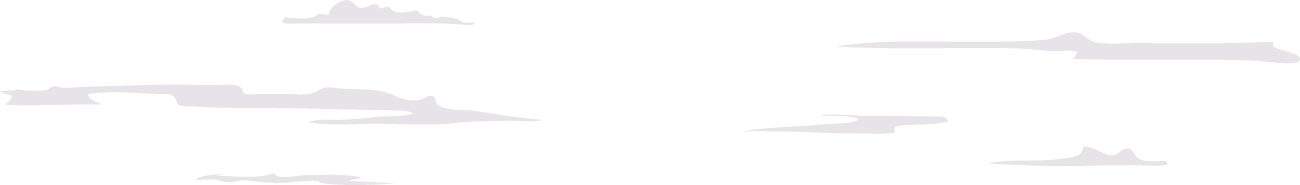
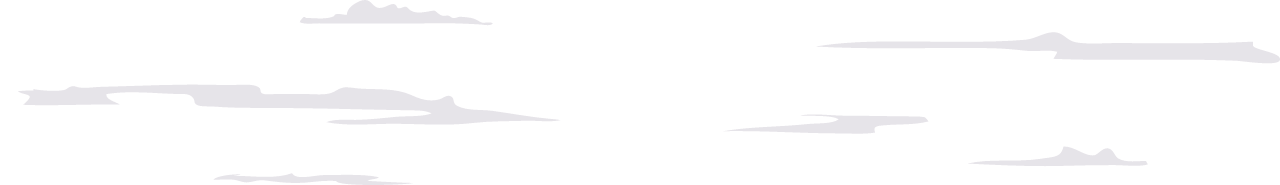
skyBg 圖片壓縮

diff --git a/src/components/Sky/index.js b/src/components/Sky/index.js
@@ -1,0 +1,58 @@
+import React from "react";
+import styled, { keyframes } from "styled-components";
+import { cloud, mountain1, mountain2, sky } from "../../assets";
+
+const bgMove = keyframes`
+  to {
+    background-position: -1280px 0;
+  }
+`;
+const bgDefault = styled.div`
+  position: absolute;
+  width: 1200px;
+  height: 300px;
+  top: 0;
+  left: 0;
+  background-repeat-y: no-repeat;
+`;
+
+const SkyWrapper = styled(bgDefault)`
+  background-image: url(${sky});
+`;
+
+const Cloud = styled(bgDefault)`
+  background-image: url(${cloud});
+  animation: ${bgMove} 20s linear infinite;
+  ${props=>props.start?'animation-play-state:runnung;':'animation-play-state:paused;'}
+`;
+
+const Mountain1 = styled(bgDefault)`
+  height: 30px;
+  top: auto;
+  bottom: 0;
+  background-image: url(${mountain1});
+  animation: ${bgMove} 10s linear infinite;
+  ${props=>props.start?'animation-play-state:runnung;':'animation-play-state:paused;'}
+`;
+
+const Mountain2 = styled(bgDefault)`
+  height: 175px;
+  top: auto;
+  bottom: 0;
+  background-image: url(${mountain2});
+  animation: ${bgMove} 15s linear infinite;
+  ${props=>props.start?'animation-play-state:runnung;':'animation-play-state:paused;'}
+`;
+
+const Sky = ({ children, start=false }) => {
+  return (
+    <SkyWrapper>
+      <Cloud start={start} />
+      <Mountain2 start={start} />
+      <Mountain1 start={start} />
+      {children}
+    </SkyWrapper>
+  );
+};
+
+export default Sky;

diff --git a/src/components/MoveBox/index.js b/src/components/MoveBox/index.js
@@ -4,20 +4,33 @@ import { toRange } from "../../utility";
 
 const BoxWrapper = styled.div`
   position: absolute;
-  width: ${props => props.width};
-  height: ${props => props.height};
+  width: ${props => props.width}px;
+  height: ${props => props.height}px;
   top: ${props => props.top}px;
   left: ${props => props.left}px;
-  margin-top: 30px;
+  margin-top: ${props => props.height}px;
   background-color: ${props => props.bgColor};
-  transform: translate(0,-100%);
+  transform: translate(0, -100%);
   transition: 0.1s linear;
+  ${props => (props.test ? `outline: 1px solid #0f3;` : null)}
+  &>div {
+    position: absolute;
+    bottom: 6px;
+  }
+  &::before {
+    position: absolute;
+    content: "";
+    width: 100%;
+    height: 100%;
+    border-radius: 100%;
+    background: rgba(0, 0, 0, 0.2);
+  }
 `;
 
 const MoveBox = ({
   children,
-  width = "auto",
-  height = "auto",
+  width = 10,
+  height = 10,
   speed = 1,
   bgColor = "transparent",
   top = 0,
@@ -27,7 +40,7 @@ const MoveBox = ({
   backward = 0,
   forward = 0,
   start = true,
-  direction = "stop",
+  test = true,
   area = [0, 200, 0, 200]
 }) => {
   const [position, setPosition] = useState({ top: top, left: left });
@@ -51,6 +64,7 @@ const MoveBox = ({
       width={width}
       height={height}
       bgColor={bgColor}
+      test={test}
       style={{
         top: position.top,
         left: position.left

diff --git a/src/screens/index.js b/src/screens/index.js
@@ -3,6 +3,7 @@ import styled from "styled-components";
 import MoveBox from "../components/MoveBox";
 import Hero from "../components/Hero";
 import Ground from "../components/Ground";
+import Sky from "../components/Sky";
 
 const Container = styled.div`
   position: absolute;
@@ -94,22 +95,25 @@ function MainScreen() {
   return (
     <Container>
       <BgArea>
-        <Ground />
+        <Sky start={true} />
+        <Ground lineBg='startLine'/>
       </BgArea>
 
       <GameArea>
-        <Hero animation='heroBuff' />
-        <Hero animation='heroHurt' />
-        <Hero animation='heroDie' />
+        <Hero animation="heroBuff" />
+        <Hero animation="heroHurt" />
+        <Hero animation="heroDie" />
         <MoveBox
           speed={20}
+          width={90}
+          height={24}
           top={500}
           left={50}
           up={moving.up}
           down={moving.down}
           backward={moving.backward}
           forward={moving.forward}
-          area={[0, 400, 300, 770]}
+          area={[0, 800, 300, 770]}
           start={moving.start}
         >
           <Hero animation={hero.animation} />

diff --git a/src/components/Ground/index.js b/src/components/Ground/index.js
@@ -16,8 +16,9 @@ const MarkingLine = styled.div`
   width: 200px;
   height: 500px;
   left: 0;
-  background-image: url(${props=>props.lineBg});
+  background-image: url(${props => props.lineBg});
   background-repeat: no-repeat;
+  transition: 1s;
 `;
 
 const LINE_BG = {
@@ -25,7 +26,12 @@ const LINE_BG = {
   finishLine: finishLine
 };
 
-const Ground = ({ children, lineBg='startLine', lineTop, lineLeft }) => {
+const Ground = ({
+  children,
+  lineBg = "startLine",
+  start = false,
+  end = false
+}) => {
   return (
     <GroundWrapper>
       <MarkingLine

diff --git a/src/assets/index.js b/src/assets/index.js
@@ -8,7 +8,7 @@ import footer from "./img/bg/bg-footer.png";
 import cloud from "./img/bg/bg-cloud.png";
 import mountain1 from "./img/bg/bg-mountain-front.png";
 import mountain2 from "./img/bg/bg-mountain-back.png";
-import sky from "./img/bg/bg-sky.png";
+import sky from "./img/bg/bg-sky.jpg";
 import startLine from "./img/bg/startingLine.png";
 import finishLine from "./img/bg/finishingLine.png";
 
